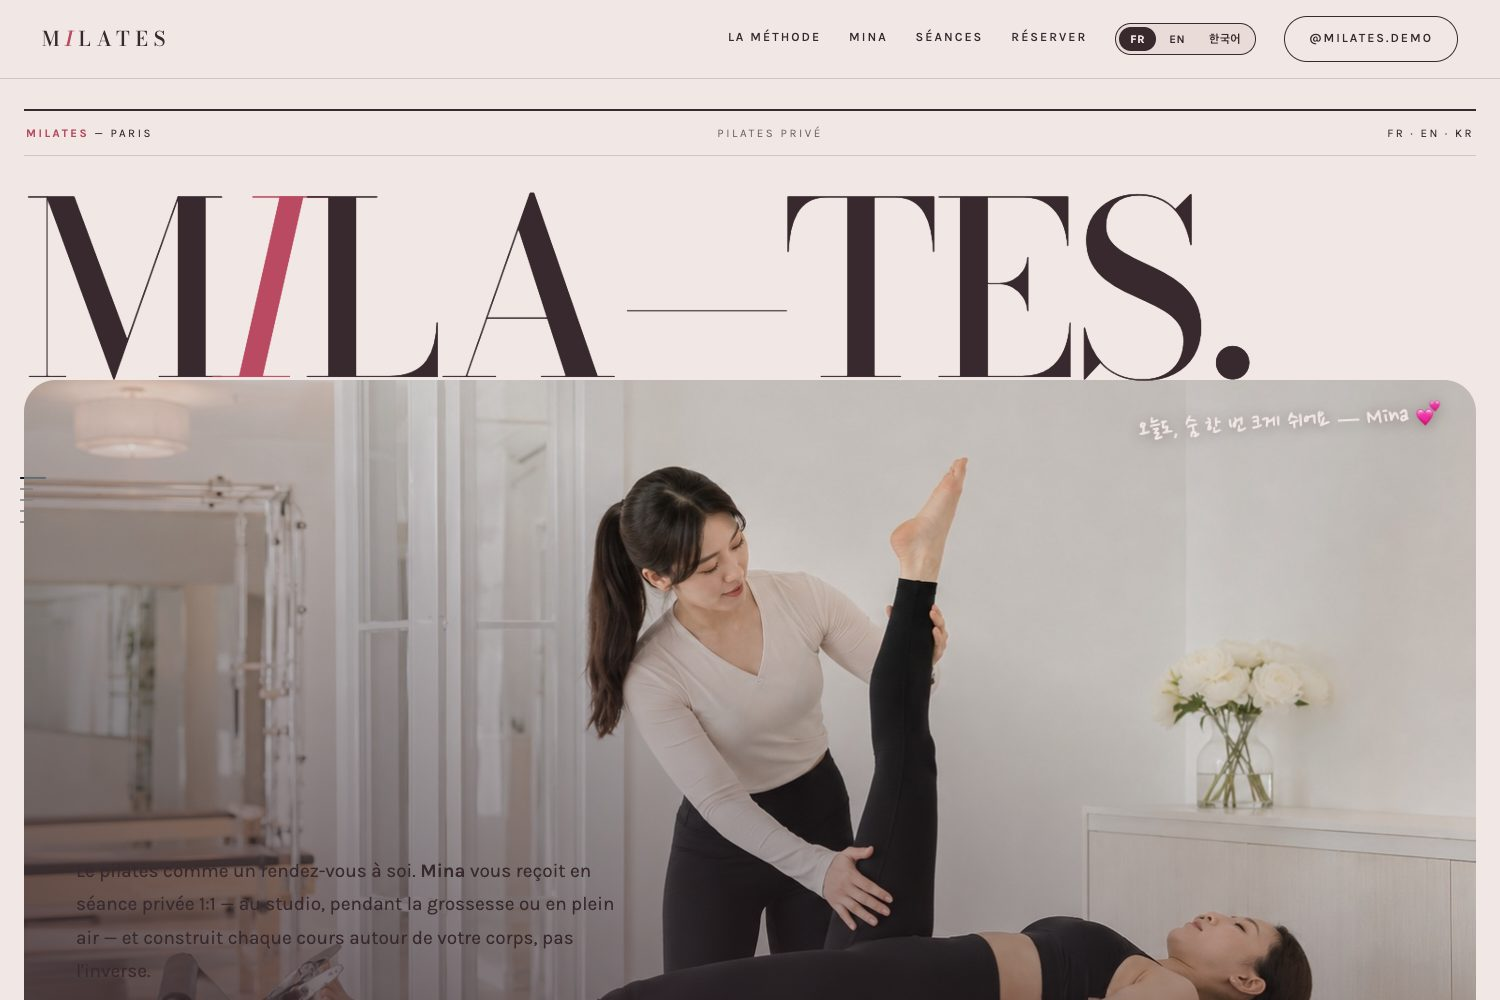
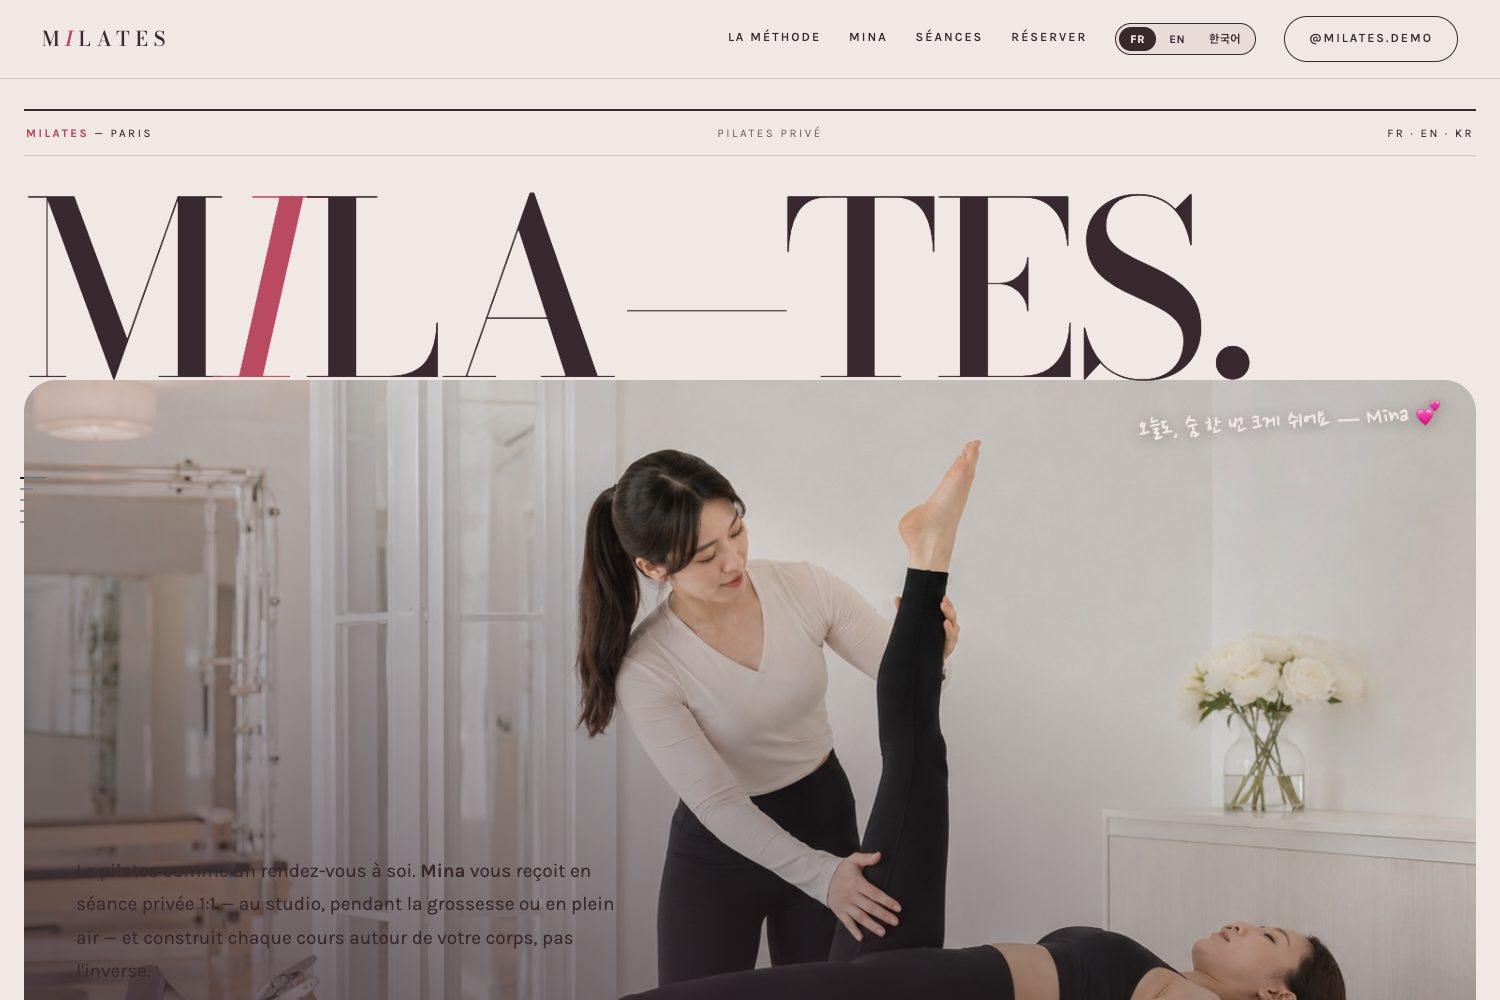
MILATES interactive: breathing ring synced to the method, editorial séance selector, hero parallax, magnetic CTAs

diff --git a/public/demos/milates-paris.html b/public/demos/milates-paris.html
@@ -86,6 +86,88 @@ a:focus-visible,button:focus-visible{outline:2px solid var(--framboise);outline-
 .lang-switch button.active{background:var(--ink);color:var(--plaster);}
 .lang-switch button:not(.active):hover{background:var(--rose);}
 
+/* ============ breathing ring (méthode) ============ */
+.breath-wrap{position:relative;display:flex;align-items:center;justify-content:center;min-height:340px;}
+.breath{
+  position:relative;width:190px;height:190px;border-radius:50%;
+  border:1px solid var(--framboise);
+  display:flex;align-items:center;justify-content:center;
+  animation:breathe 9s cubic-bezier(.45,0,.55,1) infinite;
+}
+.breath:before,.breath:after{
+  content:'';position:absolute;inset:0;border-radius:50%;border:1px solid var(--framboise);
+  opacity:.45;animation:breathe 9s cubic-bezier(.45,0,.55,1) infinite;
+}
+.breath:before{animation-delay:-.5s;opacity:.3;}
+.breath:after{animation-delay:-1s;opacity:.16;}
+@keyframes breathe{
+  0%,100%{transform:scale(.82);}
+  45%,55%{transform:scale(1.16);}
+}
+.breath-label{
+  font-family:var(--display);font-style:italic;font-weight:400;
+  font-size:19px;color:var(--framboise);transition:opacity .7s ease;
+}
+.breath-count{
+  position:absolute;bottom:-38px;left:50%;transform:translateX(-50%);
+  font-size:10.5px;letter-spacing:.32em;text-transform:uppercase;color:var(--ink-soft);white-space:nowrap;
+}
+.method-item{transition:opacity .6s ease;}
+.method-item.dim{opacity:.32;}
+.method-item .bar{display:block;height:1px;background:var(--line);margin-top:16px;position:relative;overflow:hidden;}
+.method-item .bar i{position:absolute;inset:0;background:var(--framboise);transform:scaleX(0);transform-origin:left;}
+.method-item.live .bar i{animation:fill 4.5s linear forwards;}
+@keyframes fill{to{transform:scaleX(1);}}
+@media (prefers-reduced-motion: reduce){
+  .breath,.breath:before,.breath:after{animation:none;transform:scale(1);}
+  .method-item.dim{opacity:1;}
+}
+
+/* ============ séance selector (editorial) ============ */
+.sel{display:grid;grid-template-columns:minmax(0,.86fr) minmax(0,1.14fr);gap:5vw;align-items:start;margin-top:48px;}
+.sel-names{display:flex;flex-direction:column;border-top:1px solid var(--line);}
+.sel-names button{
+  appearance:none;background:none;border:none;cursor:pointer;text-align:left;
+  padding:26px 4px;border-bottom:1px solid var(--line);
+  display:flex;align-items:baseline;gap:16px;
+  font-family:var(--display);font-weight:500;color:var(--ink);
+  font-size:clamp(28px,3.4vw,46px);line-height:1;letter-spacing:-.01em;
+  transition:color .45s ease,padding-left .45s cubic-bezier(.23,1,.32,1);
+}
+.sel-names button .n{
+  font-family:var(--body);font-size:11px;font-weight:600;letter-spacing:.24em;
+  color:var(--ink-soft);transition:color .45s ease;
+}
+.sel-names button:hover{padding-left:12px;}
+.sel-names button.on{color:var(--framboise);padding-left:12px;}
+.sel-names button.on .n{color:var(--framboise);}
+.sel-stage{position:relative;}
+.sel-ph{position:relative;overflow:hidden;aspect-ratio:4/3.15;background:var(--plaster-deep);}
+.sel-ph img{
+  position:absolute;inset:0;width:100%;height:100%;object-fit:cover;
+  opacity:0;transform:scale(1.06);
+  transition:opacity 1s cubic-bezier(.23,1,.32,1),transform 1.4s cubic-bezier(.23,1,.32,1);
+}
+.sel-ph img.on{opacity:1;transform:scale(1);}
+.sel-body{margin-top:26px;position:relative;min-height:180px;}
+.sel-pane{
+  position:absolute;inset:0;opacity:0;transform:translateY(12px);pointer-events:none;
+  transition:opacity .6s ease,transform .6s cubic-bezier(.23,1,.32,1);
+}
+.sel-pane.on{opacity:1;transform:none;pointer-events:auto;position:relative;}
+.sel-pane .fmt{font-size:10.5px;letter-spacing:.28em;text-transform:uppercase;color:var(--framboise);font-weight:600;}
+.sel-pane .dur{display:block;margin-top:10px;font-size:12.5px;letter-spacing:.14em;text-transform:uppercase;color:var(--ink-soft);}
+.sel-pane p{margin-top:14px;font-size:16px;max-width:48ch;}
+.sel-pane .for{margin-top:16px;font-size:14px;color:var(--ink-soft);border-left:2px solid var(--framboise);padding-left:14px;}
+.sel-pane .for b{color:var(--ink);font-weight:600;}
+@media(max-width:900px){
+  .sel{grid-template-columns:1fr;gap:34px;}
+  .sel-body{min-height:0;}
+  .sel-pane{position:relative;opacity:1;transform:none;display:none;}
+  .sel-pane.on{display:block;}
+  .breath-wrap{min-height:270px;}
+}
+
 /* ============ Toss-style progress trail ============ */
 .trail{
   position:fixed;left:20px;top:50%;transform:translateY(-50%);z-index:90;
@@ -509,19 +591,26 @@ body.js-anim .reveal.in{opacity:1;transform:none;}
       <div class="method-intro reveal">
         <h2 data-i18n-html="me_h2">Un seul corps par <i>séance.</i></h2>
         <p data-i18n="me_p">Pas de cours à la chaîne, pas de chorégraphie imposée. Chaque séance part de là où vous en êtes, ce jour-là — et avance à votre rythme.</p>
+        <div class="breath-wrap" aria-hidden="true">
+          <div class="breath"><span class="breath-label" id="breathLabel" data-i18n="br_in">Inspirez</span></div>
+          <span class="breath-count" data-i18n="br_note">respirez avec le cercle</span>
+        </div>
       </div>
       <div class="method-list reveal">
         <div class="method-item">
           <h3><span data-i18n="m1_h3">Respirer</span><small data-i18n="m1_sm">숨쉬기</small></h3>
           <p data-i18n="m1_p">Le souffle donne le tempo. On commence par lui : il relâche les tensions du cou et des épaules avant même le premier mouvement.</p>
+          <span class="bar" aria-hidden="true"><i></i></span>
         </div>
         <div class="method-item">
           <h3><span data-i18n="m2_h3">S'aligner</span><small data-i18n="m2_sm">정렬</small></h3>
           <p data-i18n="m2_p">Bassin, colonne, appuis. On cherche votre alignement à vous — celui qui rend le mouvement fluide et le quotidien moins fatigant.</p>
+          <span class="bar" aria-hidden="true"><i></i></span>
         </div>
         <div class="method-item">
           <h3><span data-i18n="m3_h3">S'ancrer</span><small data-i18n="m3_sm">중심 잡기</small></h3>
           <p data-i18n="m3_p">La force vient du centre. Un centre stable rend tout le reste plus libre : le dos, les hanches, la tête.</p>
+          <span class="bar" aria-hidden="true"><i></i></span>
         </div>
       </div>
     </div>
@@ -575,27 +664,38 @@ body.js-anim .reveal.in{opacity:1;transform:none;}
   <div class="rail">
     <div class="kicker reveal" data-i18n="k_seances">Les séances</div>
     <h2 class="reveal" data-i18n-html="s_h2">Trois façons de <i>pratiquer.</i></h2>
-    <div class="seance-grid" style="margin-top:44px;">
-      <div class="seance hero-card reveal">
-        <span class="fmt" data-i18n="s1_fmt">Le cœur de Milates</span>
-        <h3 data-i18n="s1_h3">Privé</h3>
-        <span class="dur" data-i18n="s1_dur">55 min · seul·e avec Mina</span>
-        <p data-i18n="s1_p">La séance sur mesure : bilan postural au premier rendez-vous, puis un programme qui évolue avec vous, semaine après semaine.</p>
-        <div class="for" data-i18n-html="s1_for"><b>Pour vous si :</b> vous débutez, vous sortez d'une douleur, ou vous voulez progresser vite et proprement.</div>
+    <div class="sel reveal">
+      <div class="sel-names" role="tablist">
+        <button type="button" class="on" data-sel="0" role="tab" aria-selected="true"><span class="n">01</span><span data-i18n="s1_h3">Privé</span></button>
+        <button type="button" data-sel="1" role="tab" aria-selected="false"><span class="n">02</span><span data-i18n="s2_h3">Prénatal</span></button>
+        <button type="button" data-sel="2" role="tab" aria-selected="false"><span class="n">03</span><span data-i18n="s3_h3">En plein air</span></button>
       </div>
-      <div class="seance reveal">
-        <span class="fmt" data-i18n="s2_fmt">Future maman</span>
-        <h3 data-i18n="s2_h3">Prénatal</h3>
-        <span class="dur" data-i18n="s2_dur">Séance adaptée · femmes enceintes</span>
-        <p data-i18n="s2_p">Un pilates doux et sûr pour accompagner la grossesse : soulager le dos, respirer plus librement, garder de la force pour l'après.</p>
-        <div class="for" data-i18n-html="s2_for"><b>Pour vous si :</b> vous attendez un bébé et voulez bouger en confiance.</div>
-      </div>
-      <div class="seance reveal">
-        <span class="fmt" data-i18n="s3_fmt">Aux beaux jours</span>
-        <h3 data-i18n="s3_h3">En plein air</h3>
-        <span class="dur" data-i18n="s3_dur">Selon la saison · Paris</span>
-        <p data-i18n="s3_p">Le tapis dans un parc, le ciel comme plafond. Des séances en extérieur quand la météo le permet — suivez les annonces sur Instagram.</p>
-        <div class="for" data-i18n-html="s3_for"><b>Pour vous si :</b> bouger dehors vous fait plus de bien qu'entre quatre murs.</div>
+      <div class="sel-stage">
+        <div class="sel-ph">
+          <img class="on" data-ph="0" src="milates-photos/studio2.jpg" alt="Séance privée au reformer">
+          <img data-ph="1" src="milates-photos/studio6.jpg" alt="Séance adaptée au Cadillac">
+          <img data-ph="2" src="milates-photos/studio5.jpg" alt="Le studio baigné de lumière">
+        </div>
+        <div class="sel-body">
+          <div class="sel-pane on" data-pane="0">
+            <span class="fmt" data-i18n="s1_fmt">Le cœur de Milates</span>
+            <span class="dur" data-i18n="s1_dur">55 min · seul·e avec Mina</span>
+            <p data-i18n="s1_p">La séance sur mesure : bilan postural au premier rendez-vous, puis un programme qui évolue avec vous, semaine après semaine.</p>
+            <div class="for" data-i18n-html="s1_for"><b>Pour vous si :</b> vous débutez, vous sortez d'une douleur, ou vous voulez progresser vite et proprement.</div>
+          </div>
+          <div class="sel-pane" data-pane="1">
+            <span class="fmt" data-i18n="s2_fmt">Future maman</span>
+            <span class="dur" data-i18n="s2_dur">Séance adaptée · femmes enceintes</span>
+            <p data-i18n="s2_p">Un pilates doux et sûr pour accompagner la grossesse : soulager le dos, respirer plus librement, garder de la force pour l'après.</p>
+            <div class="for" data-i18n-html="s2_for"><b>Pour vous si :</b> vous attendez un bébé et voulez bouger en confiance.</div>
+          </div>
+          <div class="sel-pane" data-pane="2">
+            <span class="fmt" data-i18n="s3_fmt">Aux beaux jours</span>
+            <span class="dur" data-i18n="s3_dur">Selon la saison · Paris</span>
+            <p data-i18n="s3_p">Le tapis dans un parc, le ciel comme plafond. Des séances en extérieur quand la météo le permet — suivez les annonces sur Instagram.</p>
+            <div class="for" data-i18n-html="s3_for"><b>Pour vous si :</b> bouger dehors vous fait plus de bien qu'entre quatre murs.</div>
+          </div>
+        </div>
       </div>
     </div>
     <div class="pricing-note reveal">
@@ -699,6 +799,7 @@ body.js-anim .reveal.in{opacity:1;transform:none;}
 var I18N = {
 fr: {
   _title:"Milates Paris",
+  br_in:"Inspirez", br_out:"Expirez", br_note:"respirez avec le cercle",
   nav_methode:"La méthode", nav_mina:"Mina", nav_seances:"Séances", nav_reserver:"Réserver", som:"Sommaire",
   issue2:"Pilates privé",
   dek:"Le pilates comme un rendez-vous à soi. <b>Mina</b> vous reçoit en séance privée 1:1 — au studio, pendant la grossesse ou en plein air — et construit chaque cours autour de votre corps, pas l'inverse.",
@@ -751,6 +852,7 @@ fr: {
 },
 en: {
   _title:"Milates Paris",
+  br_in:"Breathe in", br_out:"Breathe out", br_note:"breathe with the circle",
   nav_methode:"The method", nav_mina:"Mina", nav_seances:"Sessions", nav_reserver:"Book", som:"In this issue",
   issue2:"Private pilates",
   dek:"Pilates as time kept for yourself. <b>Mina</b> teaches one-to-one — at the studio, through pregnancy, or outdoors — and builds every session around your body, not the other way round.",
@@ -803,6 +905,7 @@ en: {
 },
 ko: {
   _title:"밀라테스 Milates Paris",
+  br_in:"들이쉬고", br_out:"내쉬고", br_note:"원을 따라 호흡해 보세요",
   nav_methode:"수업 철학", nav_mina:"미나", nav_seances:"레슨", nav_reserver:"예약", som:"차례",
   issue2:"1:1 프라이빗 필라테스",
   dek:"필라테스는 온전히 나를 위한 시간. <b>미나</b> 선생님이 1:1로 함께합니다 — 스튜디오에서, 임신 중에도, 야외에서도. 수업을 몸에 맞추지, 몸을 수업에 맞추지 않아요.",
@@ -878,6 +981,101 @@ document.querySelectorAll('.lang-switch button').forEach(function(b){
 var saved = null;
 try{ saved = localStorage.getItem('milates-lang'); }catch(e){}
 applyLang(saved && I18N[saved] ? saved : 'fr');
+
+/* ---------- breathing ring + méthode cycle ---------- */
+(function(){
+  var label=document.getElementById('breathLabel');
+  var items=Array.prototype.slice.call(document.querySelectorAll('.method-item'));
+  var reduce=window.matchMedia&&window.matchMedia('(prefers-reduced-motion: reduce)').matches;
+  if(!items.length)return;
+  if(label&&!reduce){
+    var inhale=true;
+    setInterval(function(){
+      inhale=!inhale;
+      label.style.opacity=0;
+      setTimeout(function(){
+        var d=I18N[document.documentElement.lang]||I18N.fr;
+        label.textContent=inhale?(d.br_in||'Inspirez'):(d.br_out||'Expirez');
+        label.style.opacity=1;
+      },420);
+    },4500);
+  }
+  if(reduce)return;
+  var i=0,timer=null,paused=false;
+  function show(n){
+    items.forEach(function(el,k){
+      el.classList.toggle('dim',k!==n);
+      el.classList.remove('live');
+    });
+    void items[n].offsetWidth;
+    items[n].classList.add('live');
+  }
+  function start(){ show(i); timer=setInterval(function(){ if(paused)return; i=(i+1)%items.length; show(i); },4500); }
+  items.forEach(function(el,k){
+    el.addEventListener('mouseenter',function(){paused=true;i=k;show(k);});
+    el.addEventListener('mouseleave',function(){paused=false;});
+  });
+  var sec=document.getElementById('methode');
+  if('IntersectionObserver' in window && sec){
+    var io=new IntersectionObserver(function(es){
+      es.forEach(function(en){ if(en.isIntersecting && !timer){ start(); io.disconnect(); } });
+    },{threshold:.3});
+    io.observe(sec);
+  } else { start(); }
+})();
+
+/* ---------- séance selector ---------- */
+(function(){
+  var btns=Array.prototype.slice.call(document.querySelectorAll('.sel-names button'));
+  if(!btns.length)return;
+  var phs=document.querySelectorAll('.sel-ph img');
+  var panes=document.querySelectorAll('.sel-pane');
+  function pick(n){
+    btns.forEach(function(b,k){b.classList.toggle('on',k===n);b.setAttribute('aria-selected',k===n);});
+    phs.forEach(function(x,k){x.classList.toggle('on',k===n);});
+    panes.forEach(function(x,k){x.classList.toggle('on',k===n);});
+  }
+  btns.forEach(function(b,k){
+    b.addEventListener('mouseenter',function(){pick(k);});
+    b.addEventListener('focus',function(){pick(k);});
+    b.addEventListener('click',function(){pick(k);});
+  });
+})();
+
+/* ---------- hero photo parallax + magnetic buttons ---------- */
+(function(){
+  var reduce=window.matchMedia&&window.matchMedia('(prefers-reduced-motion: reduce)').matches;
+  var fine=window.matchMedia&&window.matchMedia('(hover:hover) and (pointer:fine)').matches;
+  if(reduce||!fine)return;
+  var frame=document.querySelector('.hero-frame');
+  var img=frame&&frame.querySelector('img');
+  var note=frame&&frame.querySelector('.hand-note');
+  if(frame&&img){
+    setTimeout(function(){
+      img.style.animation='none';
+      img.style.transform='scale(1.06)';
+      img.style.transition='transform .6s cubic-bezier(.23,1,.32,1)';
+      frame.addEventListener('mousemove',function(e){
+        var r=frame.getBoundingClientRect();
+        var nx=(e.clientX-r.left)/r.width-.5, ny=(e.clientY-r.top)/r.height-.5;
+        img.style.transform='scale(1.06) translate('+(-nx*22)+'px,'+(-ny*16)+'px)';
+        if(note)note.style.transform='translate('+(nx*14)+'px,'+(ny*10)+'px)';
+      });
+      frame.addEventListener('mouseleave',function(){
+        img.style.transform='scale(1.06)';
+        if(note)note.style.transform='';
+      });
+    },2500);
+  }
+  document.querySelectorAll('.cta-row .btn, .btn-solid').forEach(function(el){
+    el.style.transition='transform .35s cubic-bezier(.23,1,.32,1),background .25s,color .25s';
+    el.addEventListener('mousemove',function(e){
+      var r=el.getBoundingClientRect();
+      el.style.transform='translate('+((e.clientX-r.left-r.width/2)*.22)+'px,'+((e.clientY-r.top-r.height/2)*.34)+'px)';
+    });
+    el.addEventListener('mouseleave',function(){el.style.transform='';});
+  });
+})();
 
 /* Toss-style progress trail */
 (function(){
